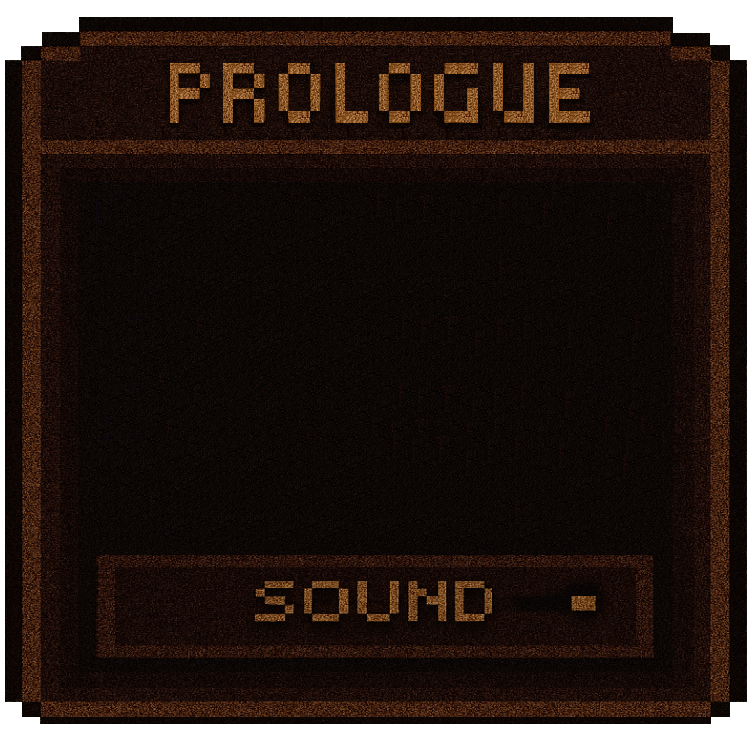
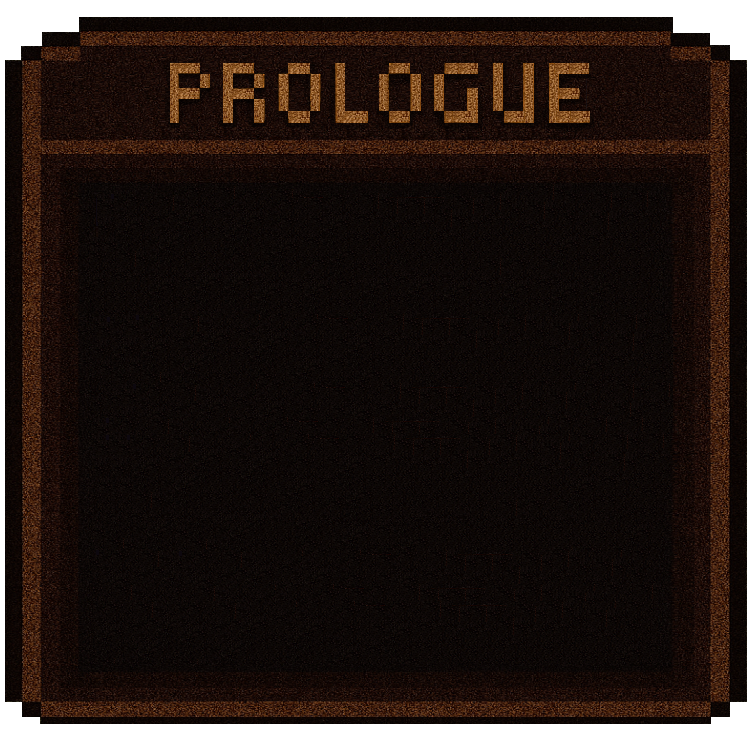
add accusation popup

Changed region(s): [[0.1222, 0.75, 0.8858, 0.9062], [0.7331, 0.8125, 0.7942, 0.8438]]

diff --git a/core/src/main/java/com/gdx/game/ui/popup/AccusationPopup.java b/core/src/main/java/com/gdx/game/ui/popup/AccusationPopup.java
@@ -1,0 +1,178 @@
+package com.gdx.game.ui.popup;
+
+import com.badlogic.gdx.Gdx;
+import com.badlogic.gdx.graphics.Color;
+import com.badlogic.gdx.graphics.Texture;
+import com.badlogic.gdx.graphics.g2d.GlyphLayout;
+import com.badlogic.gdx.graphics.g2d.TextureRegion;
+import com.badlogic.gdx.scenes.scene2d.Stage;
+import com.badlogic.gdx.scenes.scene2d.ui.Image;
+import com.badlogic.gdx.scenes.scene2d.ui.Label;
+import com.badlogic.gdx.scenes.scene2d.ui.Skin;
+import com.badlogic.gdx.scenes.scene2d.utils.TextureRegionDrawable;
+import com.badlogic.gdx.utils.Align;
+import com.gdx.game.DetectiveGame;
+import com.gdx.game.utils.Assets;
+import com.gdx.game.utils.FontScaler;
+import com.gdx.game.utils.ScreenUtilsHelper;
+
+public class AccusationPopup extends AbstractPopup {
+    private final Image accusationBackground;
+    private final Texture accusationTexture;
+    private final Image accuseButton;
+    private final Image closeButton;
+
+    private final DetectiveGame game;
+    private final Skin skin;
+
+    private final Image[] portraits;
+    private final Label[] names;
+
+    private final String[] characterNames = {"Doctor", "Officer", "Student", "Sister", "Cashier"};
+    private final String[] characterTextures = {
+        Assets.DOCTOR_PORTRAIT,
+        Assets.OFFICER_PORTRAIT,
+        Assets.STUDENT_PORTRAIT,
+        Assets.SISTER_PORTRAIT,
+        Assets.CASHIER_PORTRAIT
+    };
+
+    public AccusationPopup(Stage stage, DetectiveGame game) {
+        super(stage);
+        this.game = game;
+
+        accusationTexture = new Texture(Assets.ACCUSATION_POPUP);
+        accusationBackground = new Image(accusationTexture);
+        skin = new Skin(Gdx.files.internal("ui/uiskin.json"));
+
+        accuseButton = game.getButtonFactory().createButton(Assets.ACCUSE, 60, 60, () -> {});
+        closeButton = game.getButtonFactory().createButton(Assets.CLOSE_BUTTON, 64, 64, this::remove);
+
+        Label.LabelStyle labelStyle = new Label.LabelStyle();
+        labelStyle.font = skin.getFont("default-font");
+        labelStyle.fontColor = new Color(154 / 255f, 109 / 255f, 69 / 255f, 1f);
+
+        portraits = new Image[characterNames.length];
+        names = new Label[characterNames.length];
+
+        for (int i = 0; i < characterNames.length; i++) {
+            portraits[i] = new Image(new Texture(characterTextures[i]));
+            names[i] = new Label(characterNames[i], labelStyle);
+            names[i].setAlignment(Align.center);
+        }
+
+        resize(stage.getViewport().getWorldWidth(), stage.getViewport().getWorldHeight());
+    }
+
+    public void resize(float screenWidth, float screenHeight) {
+        background.setSize(screenWidth, screenHeight);
+        accusationBackground.setSize(screenWidth, screenHeight);
+        resizeCentered(accusationBackground, accusationTexture, screenWidth, screenHeight);
+
+        FontScaler.applyScale(skin.getFont("default-font"));
+
+        float paddingY = accusationBackground.getHeight() * 0.27f;
+        float availableHeight = accusationBackground.getHeight() - 2 * paddingY;
+
+        float maxPortraitHeight = availableHeight * 0.4f;
+
+        float spacingX = maxPortraitHeight * 0.3f;
+        float spacingY = maxPortraitHeight * 0.3f;
+
+        int[][] rows = {{0, 1, 2}, {3, 4}};
+
+        float currentY = accusationBackground.getY() + accusationBackground.getHeight() - paddingY - maxPortraitHeight;
+
+        for (int[] row : rows) {
+            float rowWidth = 0;
+            float[] rowWidths = new float[row.length];
+            float[] rowHeights = new float[row.length];
+
+            for (int i = 0; i < row.length; i++) {
+                int idx = row[i];
+                TextureRegionDrawable drawable = (TextureRegionDrawable) portraits[idx].getDrawable();
+                TextureRegion region = drawable.getRegion();
+                float aspect = (float) region.getRegionWidth() / region.getRegionHeight();
+
+                float w = maxPortraitHeight * aspect;
+                rowWidths[i] = w;
+                rowHeights[i] = maxPortraitHeight;
+                rowWidth += w;
+            }
+            rowWidth += spacingX * (row.length - 1);
+
+            float startX = accusationBackground.getX() + (accusationBackground.getWidth() - rowWidth) / 2f;
+
+            for (int i = 0; i < row.length; i++) {
+                int idx = row[i];
+                float portraitHeight = rowHeights[i];
+
+                portraits[idx].setSize(rowWidths[i], portraitHeight);
+                portraits[idx].setPosition(startX, currentY);
+
+                names[idx].setWidth(rowWidths[i]);
+                names[idx].setAlignment(Align.center);
+
+                GlyphLayout layout = new GlyphLayout(names[idx].getStyle().font, names[idx].getText());
+                float textHeight = layout.height;
+
+                float LABEL_OFFSET = accusationBackground.getHeight() * 0.02f;
+
+                names[idx].setPosition(
+                    startX,
+                    currentY - textHeight - LABEL_OFFSET
+                );
+
+
+
+                startX += rowWidths[i] + spacingX;
+            }
+
+            currentY -= maxPortraitHeight + spacingY + maxPortraitHeight * 0.1f;
+        }
+
+        float btnWidth = accusationBackground.getWidth() * 0.5f;
+        float btnHeight = accusationBackground.getHeight() * 0.1f;
+        float paddingBottom = accusationBackground.getHeight() * 0.1f;
+
+        accuseButton.setSize(btnWidth, btnHeight);
+        accuseButton.setPosition(
+            accusationBackground.getX() + (accusationBackground.getWidth() - btnWidth) / 2f,
+            accusationBackground.getY() + paddingBottom
+        );
+
+        ScreenUtilsHelper.scaleAndPositionButton(
+            closeButton, screenHeight * 0.12f, 10, screenHeight - closeButton.getHeight() - 10
+        );
+    }
+
+    @Override
+    public void show() {
+        super.show();
+        stage.addActor(accusationBackground);
+
+        for (int i = 0; i < portraits.length; i++) {
+            stage.addActor(portraits[i]);
+            stage.addActor(names[i]);
+        }
+
+        stage.addActor(accuseButton);
+        stage.addActor(closeButton);
+        resize(stage.getViewport().getWorldWidth(), stage.getViewport().getWorldHeight());
+    }
+
+    @Override
+    public void remove() {
+        super.remove();
+        accusationBackground.remove();
+        for (Image portrait : portraits) portrait.remove();
+        for (Label name : names) name.remove();
+        accuseButton.remove();
+        closeButton.remove();
+    }
+
+    public void dispose() {
+        accusationTexture.dispose();
+        skin.dispose();
+    }
+}

diff --git a/core/src/main/java/com/gdx/game/utils/UIOverlayManager.java b/core/src/main/java/com/gdx/game/utils/UIOverlayManager.java
@@ -17,6 +17,7 @@ public class UIOverlayManager {
     private final Image notesButton;
     private final Image dossierButton;
     private final Image settingsButton;
+    private final Image accuseButton;
     private final Image homeButton;
 
     private final Texture arrowDownTexture;
@@ -27,6 +28,7 @@ public class UIOverlayManager {
 
     private NotePopup notePopup;
     private DossierPopup dossierPopup;
+    private AccusationPopup accusationPopup;
     private SettingsPopup settingsPopup;
 
     private boolean menuOpened = false;
@@ -44,14 +46,17 @@ public class UIOverlayManager {
         notesButton = game.getButtonFactory().createButton(Assets.NOTE_ICON, 64, 64, this::showNotes);
         dossierButton = game.getButtonFactory().createButton(Assets.DOSSIER_BUTTON, 64, 64, this::showDossier);
         settingsButton = game.getButtonFactory().createButton(Assets.SETTINGS_BUTTON, 64, 64, this::showSettings);
+        accuseButton = game.getButtonFactory().createButton(Assets.ACCUSATION_BUTTON, 64, 64, this::showAccusation); // TODO ACCUSATION POPUP
         homeButton = game.getButtonFactory().createButton(Assets.HOME_BUTTON, 64, 64, this::backToMap);
 
         notesButton.setVisible(false);
         dossierButton.setVisible(false);
+        accuseButton.setVisible(false);
 
         uiStage.addActor(toggleButton);
         uiStage.addActor(notesButton);
         uiStage.addActor(dossierButton);
+        uiStage.addActor(accuseButton);
         uiStage.addActor(settingsButton);
 
         popupFactory = new PopupFactory(uiStage, game, game.getTransition());
@@ -62,6 +67,7 @@ public class UIOverlayManager {
         menuOpened = !menuOpened;
         notesButton.setVisible(menuOpened);
         dossierButton.setVisible(menuOpened);
+        accuseButton.setVisible(menuOpened);
         toggleButton.setDrawable(new Image(menuOpened ? arrowUpTexture : arrowDownTexture).getDrawable());
     }
 
@@ -82,6 +88,11 @@ public class UIOverlayManager {
     private void showDossier() {
         if (dossierPopup == null) dossierPopup = popupFactory.createDossierPopup();
         dossierPopup.show();
+    }
+
+    private void showAccusation() {
+        if (accusationPopup == null) accusationPopup = popupFactory.createAccusationPopup();
+        accusationPopup.show();
     }
 
     private void showSettings() {
@@ -126,7 +137,6 @@ public class UIOverlayManager {
         }
     }
 
-    // --- Масштабування ---
     public void resize(int width, int height) {
         uiStage.getViewport().update(width, height, true);
 
@@ -135,10 +145,16 @@ public class UIOverlayManager {
 
         ScreenUtilsHelper.scaleAndPositionButton(toggleButton, targetHeight, margin,
                 uiStage.getViewport().getWorldHeight() - toggleButton.getHeight() - margin);
+        toggleButton.setPosition(margin,
+                uiStage.getViewport().getWorldHeight() - toggleButton.getHeight() - margin);
         ScreenUtilsHelper.scaleAndPositionButton(notesButton, targetHeight, margin,
+                toggleButton.getY() - notesButton.getHeight());
+        notesButton.setPosition(margin,
                 toggleButton.getY() - notesButton.getHeight());
         ScreenUtilsHelper.scaleAndPositionButton(dossierButton, targetHeight, margin,
                 notesButton.getY() - dossierButton.getHeight());
+        ScreenUtilsHelper.scaleAndPositionButton(accuseButton, targetHeight, margin,
+                dossierButton.getY() - accuseButton.getHeight());
         ScreenUtilsHelper.scaleAndPositionButton(settingsButton, targetHeight, 0, 0);
         settingsButton.setPosition(
                 uiStage.getViewport().getWorldWidth() - settingsButton.getWidth() - margin,
@@ -155,6 +171,7 @@ public class UIOverlayManager {
         if (notePopup != null) notePopup.resize(width, height);
         if (dossierPopup != null) dossierPopup.resize(width, height);
         if (settingsPopup != null) settingsPopup.resize(width, height);
+        if (accusationPopup != null) accusationPopup.resize(width, height);
     }
 
     public void setVisible(boolean visible) {
@@ -174,6 +191,7 @@ public class UIOverlayManager {
         if (notePopup != null) notePopup.dispose();
         if (dossierPopup != null) dossierPopup.dispose();
         if (settingsPopup != null) settingsPopup.dispose();
+        if (accusationPopup != null) accusationPopup.dispose();
 
         timer.saveTime();
     }
@@ -182,6 +200,7 @@ public class UIOverlayManager {
         if (settingsPopup != null) settingsPopup.remove();
         if (notePopup != null) notePopup.remove();
         if (dossierPopup != null) dossierPopup.remove();
+        if (accusationPopup != null) accusationPopup.remove();
     }
 
     public void pauseTimer() {

diff --git a/core/src/main/java/com/gdx/game/utils/Assets.java b/core/src/main/java/com/gdx/game/utils/Assets.java
@@ -12,6 +12,7 @@ public class Assets {
     public static final String NOTE_ICON = "menu/note/note_icon.png";
     public static final String DOSSIER_BUTTON = "menu/dossier/dossier_icon.png";
     public static final String SETTINGS_BUTTON = "menu/settings/settings_btn.png";
+    public static final String ACCUSATION_BUTTON = "menu/accusation/accusation_btn.png";
     public static final String TIMER = "menu/timer.png";
 
     public static final String NOTES = "menu/note/notes.png";
@@ -27,6 +28,15 @@ public class Assets {
 
     public static final String CONTINUE_BUTTON = "menu/settings/continue_btn.png";
     public static final String EXIT_BUTTON = "menu/settings/exit_btn.png";
+
+    public static final String ACCUSE = "menu/accusation/accuse.png";
+    public static final String ACCUSATION_POPUP = "menu/accusation/accusation.png";
+
+    public static final String OFFICER_PORTRAIT = "chars/portrait/officer.png";
+    public static final String CASHIER_PORTRAIT = "chars/portrait/cashier.png";
+    public static final String SISTER_PORTRAIT = "chars/portrait/sister.png";
+    public static final String STUDENT_PORTRAIT = "chars/portrait/student.png";
+    public static final String DOCTOR_PORTRAIT = "chars/portrait/doctor.png";
 
     public static final String PROLOGUE = "menu/story/prologue.png";
 

diff --git a/core/src/main/java/com/gdx/game/ui/popup/StoryPopup.java b/core/src/main/java/com/gdx/game/ui/popup/StoryPopup.java
@@ -1,10 +1,8 @@
 package com.gdx.game.ui.popup;
 
-import com.badlogic.gdx.Application;
 import com.badlogic.gdx.Gdx;
 import com.badlogic.gdx.graphics.Color;
 import com.badlogic.gdx.graphics.Texture;
-import com.badlogic.gdx.graphics.g2d.BitmapFont;
 import com.badlogic.gdx.scenes.scene2d.Stage;
 import com.badlogic.gdx.scenes.scene2d.ui.Image;
 import com.badlogic.gdx.scenes.scene2d.ui.Label;
@@ -79,8 +77,8 @@ public class StoryPopup extends AbstractPopup {
         background.setSize(screenWidth, screenHeight);
         resizeCentered(storyImage, storyTexture, screenWidth, screenHeight);
 
-        float btnWidth = storyImage.getWidth() * 0.75f;
-        float btnHeight = storyImage.getHeight() * 0.15f;
+        float btnWidth = storyImage.getWidth() * 0.5f;
+        float btnHeight = storyImage.getHeight() * 0.1f;
         float paddingBottom = storyImage.getHeight() * 0.1f;
 
 
@@ -94,7 +92,6 @@ public class StoryPopup extends AbstractPopup {
 
         continueButton.setSize(btnWidth, btnHeight);
         continueButton.setPosition(storyImage.getX() + (storyImage.getWidth() - btnWidth) / 2f, storyImage.getY() + paddingBottom);
-
     }
 
     private void finishText() {

diff --git a/core/src/main/java/com/gdx/game/ui/popup/PopupFactory.java b/core/src/main/java/com/gdx/game/ui/popup/PopupFactory.java
@@ -37,4 +37,8 @@ public class PopupFactory {
     public DossierPopup createDossierPopup() {
         return new DossierPopup(stage, game);
     }
+
+    public AccusationPopup createAccusationPopup() {
+        return new AccusationPopup(stage, game);
+    }
 }

diff --git a/core/src/main/java/com/gdx/game/screens/CharacterInteriorScreen.java b/core/src/main/java/com/gdx/game/screens/CharacterInteriorScreen.java
@@ -164,6 +164,7 @@ public class CharacterInteriorScreen implements Screen, GestureDetector.GestureL
         game.overlay.render(delta);
     }
 
+    // TODO fix bubble and input scaling
     @Override
     public void resize(int width, int height) {
         viewport.update(width, height);
@@ -194,7 +195,7 @@ public class CharacterInteriorScreen implements Screen, GestureDetector.GestureL
             20f
         );
 
-        float inputPadding = 50f;
+        float inputPadding = 50f * screenAspect;
         float inputWidth = desiredWidth - inputPadding * 2f;
         float inputHeight = desiredHeight * 0.4f;
 